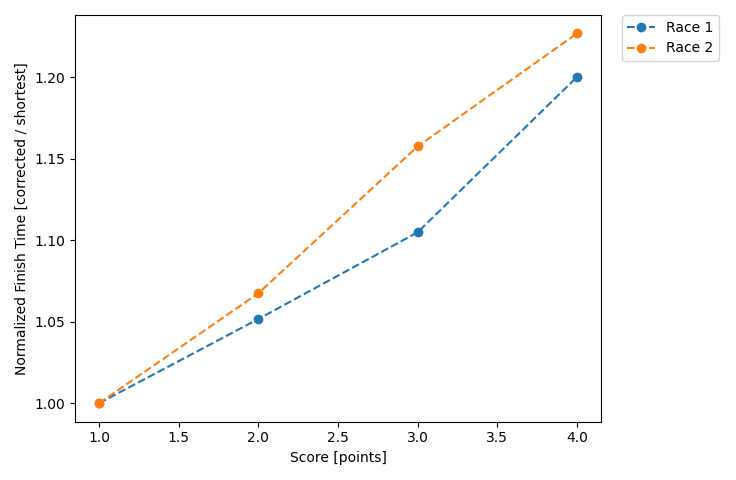
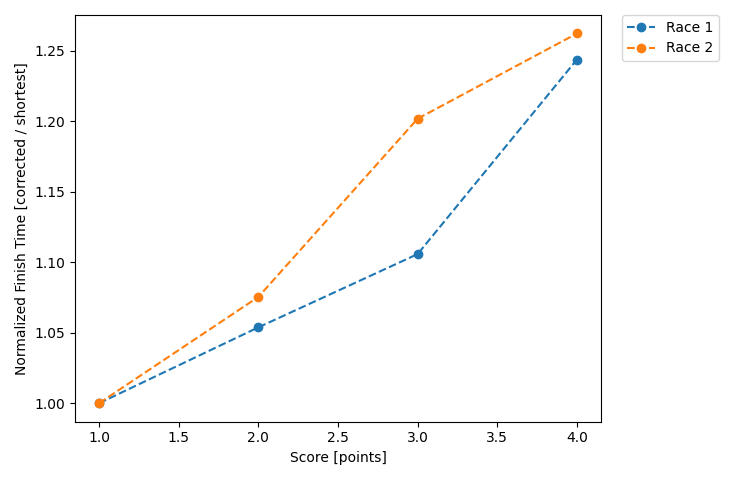
Deploying to gh-pages from @ cessnao3/PortsmouthRaceCalc@e2a3f5020532dd2b245432d54ad6d3d51782c62b 🚀

diff --git a/series/2024_series_3/index.html b/series/2024_series_3/index.html
@@ -314,12 +314,12 @@ Melissa_W
         <td><a href="../../fleet/portsmouth_2017/boats/sf.html">SF</a></td>
         
         <td>33:03</td>
-        <td>00:00</td>
-        <td>33:03</td>
-        <td>1983</td>
+        <td>06:00</td>
+        <td>27:03</td>
+        <td>1623</td>
         <td>1.00400</td>
-        <td>1975</td>
-        <td>32:55</td>
+        <td>1617</td>
+        <td>26:57</td>
         
     </tr>
     
@@ -338,12 +338,12 @@ Melissa_W
         <td><a href="../../fleet/portsmouth_2017/boats/f5.html">F5</a></td>
         
         <td>33:26</td>
-        <td>00:00</td>
-        <td>33:26</td>
-        <td>2006</td>
+        <td>06:00</td>
+        <td>27:26</td>
+        <td>1646</td>
         <td>0.96600</td>
-        <td>2077</td>
-        <td>34:37</td>
+        <td>1704</td>
+        <td>28:24</td>
         
     </tr>
     
@@ -362,12 +362,12 @@ Melissa_W
         <td><a href="../../fleet/portsmouth_2017/boats/us-1.html">US-1</a></td>
         
         <td>33:12</td>
-        <td>00:00</td>
-        <td>33:12</td>
-        <td>1992</td>
+        <td>06:00</td>
+        <td>27:12</td>
+        <td>1632</td>
         <td>0.91300</td>
-        <td>2182</td>
-        <td>36:22</td>
+        <td>1788</td>
+        <td>29:48</td>
         
     </tr>
     
@@ -386,12 +386,12 @@ Craig_J
         <td><a href="../../fleet/portsmouth_2017/boats/sf.html">SF</a></td>
         
         <td>39:39</td>
-        <td>00:00</td>
-        <td>39:39</td>
-        <td>2379</td>
+        <td>06:00</td>
+        <td>33:39</td>
+        <td>2019</td>
         <td>1.00400</td>
-        <td>2370</td>
-        <td>39:30</td>
+        <td>2011</td>
+        <td>33:31</td>
         
     </tr>
     
@@ -489,12 +489,12 @@ Melissa_W
         <td><a href="../../fleet/portsmouth_2017/boats/sf.html">SF</a></td>
         
         <td>27:19</td>
-        <td>00:00</td>
-        <td>27:19</td>
-        <td>1639</td>
+        <td>06:00</td>
+        <td>21:19</td>
+        <td>1279</td>
         <td>1.00400</td>
-        <td>1632</td>
-        <td>27:12</td>
+        <td>1274</td>
+        <td>21:14</td>
         
     </tr>
     
@@ -513,12 +513,12 @@ Melissa_W
         <td><a href="../../fleet/portsmouth_2017/boats/f5.html">F5</a></td>
         
         <td>28:03</td>
-        <td>00:00</td>
-        <td>28:03</td>
-        <td>1683</td>
+        <td>06:00</td>
+        <td>22:03</td>
+        <td>1323</td>
         <td>0.96600</td>
-        <td>1742</td>
-        <td>29:02</td>
+        <td>1370</td>
+        <td>22:50</td>
         
     </tr>
     
@@ -537,12 +537,12 @@ Craig_J
         <td><a href="../../fleet/portsmouth_2017/boats/sf.html">SF</a></td>
         
         <td>31:37</td>
-        <td>00:00</td>
-        <td>31:37</td>
-        <td>1897</td>
+        <td>06:00</td>
+        <td>25:37</td>
+        <td>1537</td>
         <td>1.00400</td>
-        <td>1889</td>
-        <td>31:29</td>
+        <td>1531</td>
+        <td>25:31</td>
         
     </tr>
     
@@ -561,12 +561,12 @@ Craig_J
         <td><a href="../../fleet/portsmouth_2017/boats/us-1.html">US-1</a></td>
         
         <td>30:28</td>
-        <td>00:00</td>
-        <td>30:28</td>
-        <td>1828</td>
+        <td>06:00</td>
+        <td>24:28</td>
+        <td>1468</td>
         <td>0.91300</td>
-        <td>2002</td>
-        <td>33:22</td>
+        <td>1608</td>
+        <td>26:48</td>
         
     </tr>
     

diff --git a/series/2024_series_3/race_1.html b/series/2024_series_3/race_1.html
@@ -72,12 +72,12 @@
         <td><a href="../../fleet/portsmouth_2017/boats/sf.html">SF</a></td>
         
         <td>27:19</td>
-        <td>00:00</td>
-        <td>27:19</td>
-        <td>1639</td>
+        <td>06:00</td>
+        <td>21:19</td>
+        <td>1279</td>
         <td>1.00400</td>
-        <td>1632</td>
-        <td>27:12</td>
+        <td>1274</td>
+        <td>21:14</td>
         
     </tr>
     
@@ -96,12 +96,12 @@
         <td><a href="../../fleet/portsmouth_2017/boats/f5.html">F5</a></td>
         
         <td>28:03</td>
-        <td>00:00</td>
-        <td>28:03</td>
-        <td>1683</td>
+        <td>06:00</td>
+        <td>22:03</td>
+        <td>1323</td>
         <td>0.96600</td>
-        <td>1742</td>
-        <td>29:02</td>
+        <td>1370</td>
+        <td>22:50</td>
         
     </tr>
     
@@ -120,12 +120,12 @@ Craig_J
         <td><a href="../../fleet/portsmouth_2017/boats/sf.html">SF</a></td>
         
         <td>31:37</td>
-        <td>00:00</td>
-        <td>31:37</td>
-        <td>1897</td>
+        <td>06:00</td>
+        <td>25:37</td>
+        <td>1537</td>
         <td>1.00400</td>
-        <td>1889</td>
-        <td>31:29</td>
+        <td>1531</td>
+        <td>25:31</td>
         
     </tr>
     
@@ -144,12 +144,12 @@ Craig_J
         <td><a href="../../fleet/portsmouth_2017/boats/us-1.html">US-1</a></td>
         
         <td>30:28</td>
-        <td>00:00</td>
-        <td>30:28</td>
-        <td>1828</td>
+        <td>06:00</td>
+        <td>24:28</td>
+        <td>1468</td>
         <td>0.91300</td>
-        <td>2002</td>
-        <td>33:22</td>
+        <td>1608</td>
+        <td>26:48</td>
         
     </tr>
     

diff --git a/series/2024_series_3/race_0.html b/series/2024_series_3/race_0.html
@@ -72,12 +72,12 @@
         <td><a href="../../fleet/portsmouth_2017/boats/sf.html">SF</a></td>
         
         <td>33:03</td>
-        <td>00:00</td>
-        <td>33:03</td>
-        <td>1983</td>
+        <td>06:00</td>
+        <td>27:03</td>
+        <td>1623</td>
         <td>1.00400</td>
-        <td>1975</td>
-        <td>32:55</td>
+        <td>1617</td>
+        <td>26:57</td>
         
     </tr>
     
@@ -96,12 +96,12 @@
         <td><a href="../../fleet/portsmouth_2017/boats/f5.html">F5</a></td>
         
         <td>33:26</td>
-        <td>00:00</td>
-        <td>33:26</td>
-        <td>2006</td>
+        <td>06:00</td>
+        <td>27:26</td>
+        <td>1646</td>
         <td>0.96600</td>
-        <td>2077</td>
-        <td>34:37</td>
+        <td>1704</td>
+        <td>28:24</td>
         
     </tr>
     
@@ -120,12 +120,12 @@
         <td><a href="../../fleet/portsmouth_2017/boats/us-1.html">US-1</a></td>
         
         <td>33:12</td>
-        <td>00:00</td>
-        <td>33:12</td>
-        <td>1992</td>
+        <td>06:00</td>
+        <td>27:12</td>
+        <td>1632</td>
         <td>0.91300</td>
-        <td>2182</td>
-        <td>36:22</td>
+        <td>1788</td>
+        <td>29:48</td>
         
     </tr>
     
@@ -144,12 +144,12 @@ Craig_J
         <td><a href="../../fleet/portsmouth_2017/boats/sf.html">SF</a></td>
         
         <td>39:39</td>
-        <td>00:00</td>
-        <td>39:39</td>
-        <td>2379</td>
+        <td>06:00</td>
+        <td>33:39</td>
+        <td>2019</td>
         <td>1.00400</td>
-        <td>2370</td>
-        <td>39:30</td>
+        <td>2011</td>
+        <td>33:31</td>
         
     </tr>
     

diff --git a/index.html b/index.html
@@ -189,7 +189,7 @@
 
         <h2>Notes</h2>
         <p>
-            Compiled on: August 19, 2024 at 01:30:00 UTC
+            Compiled on: August 19, 2024 at 19:30:34 UTC
         </p>
 
         <p>
